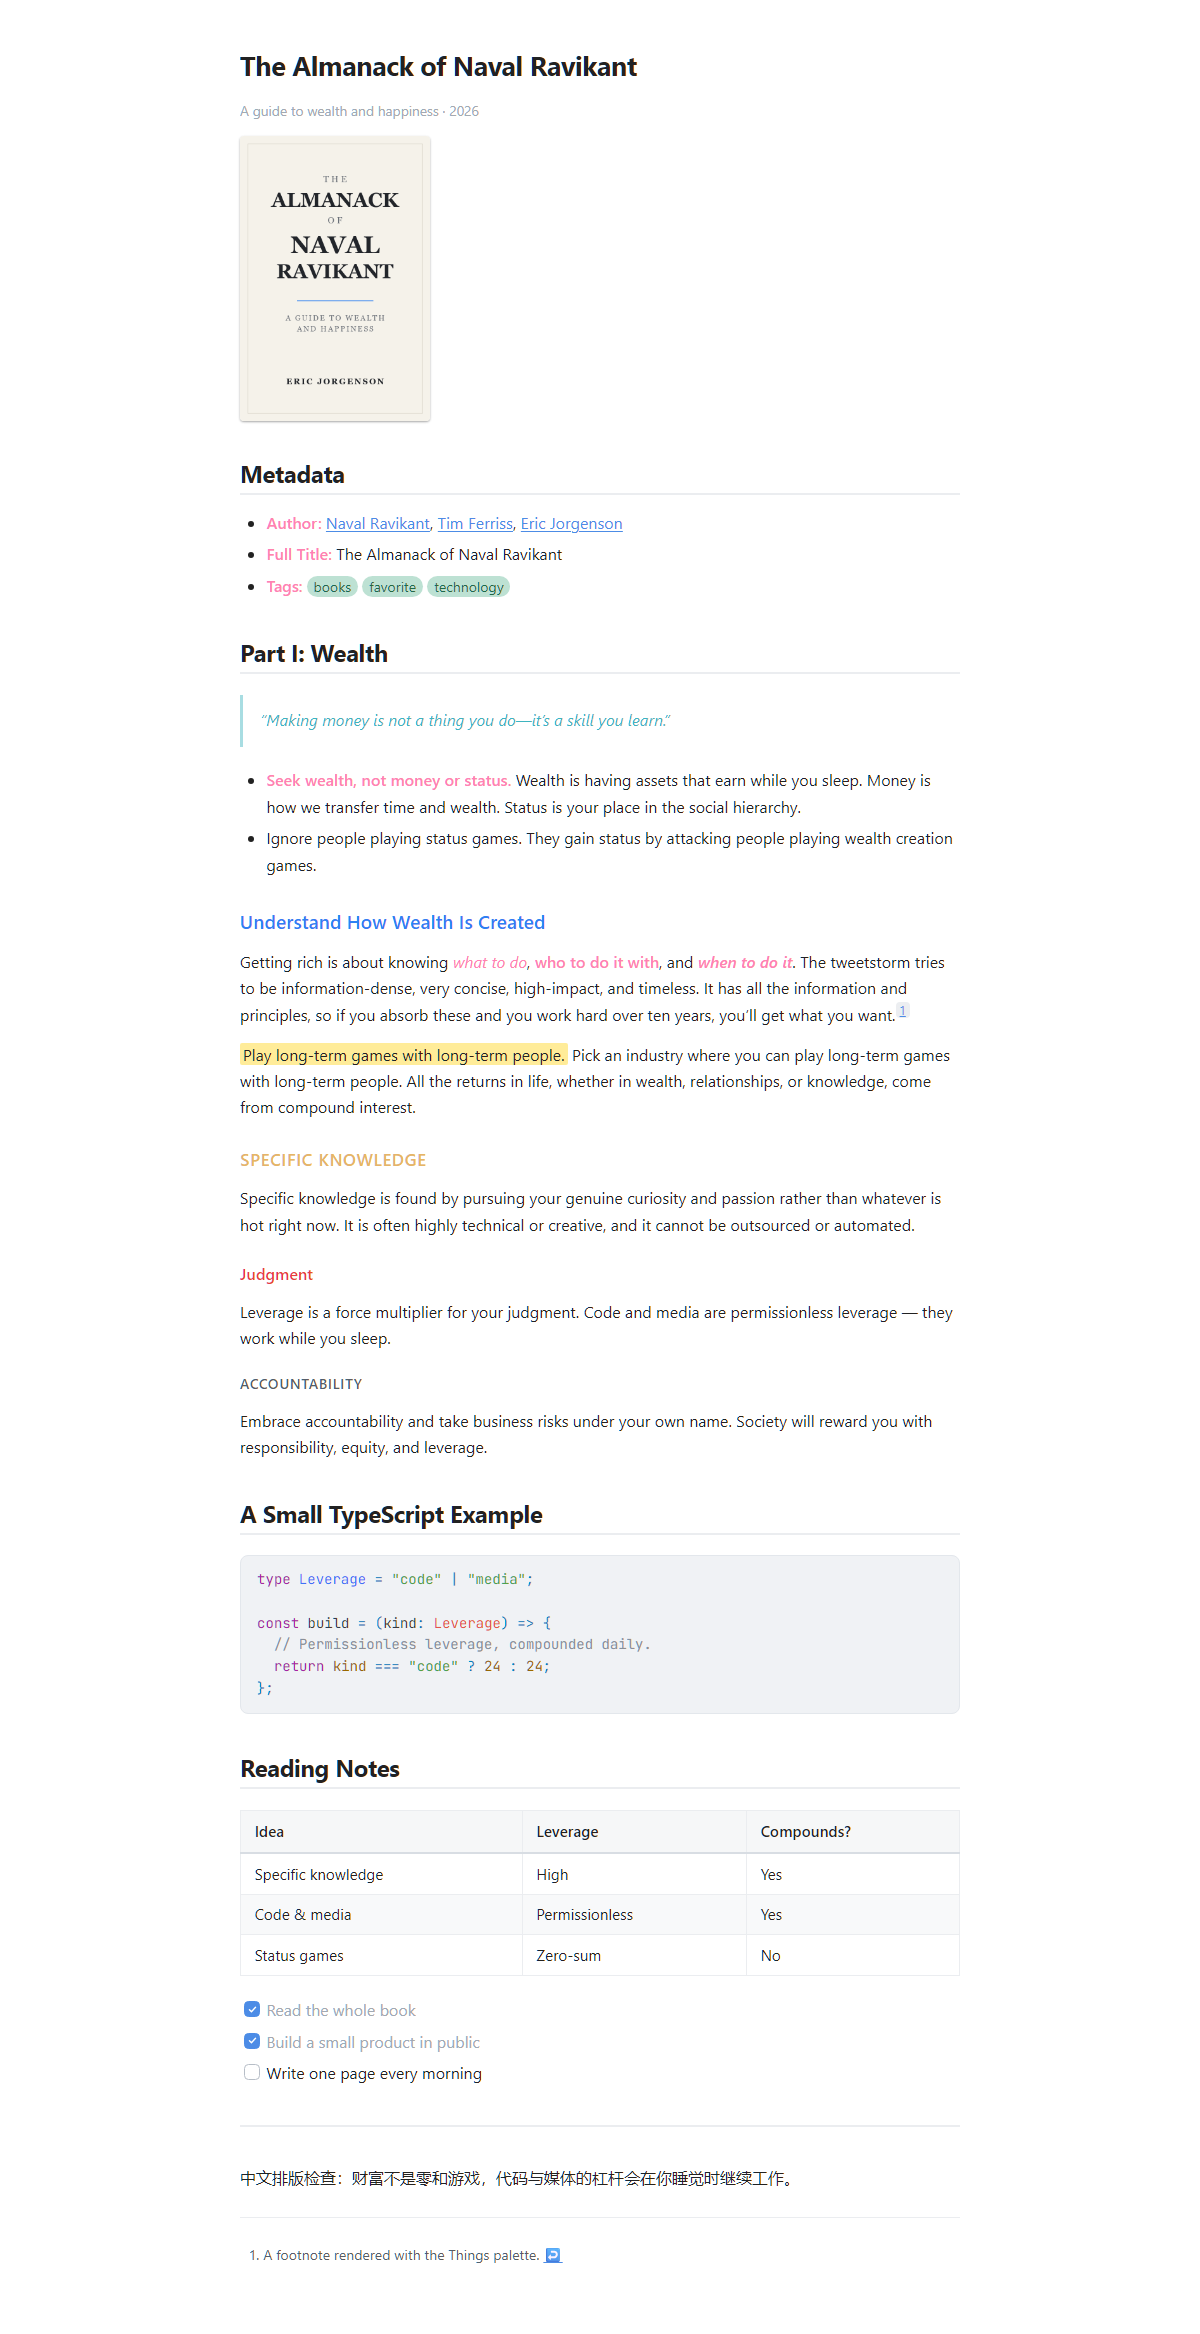
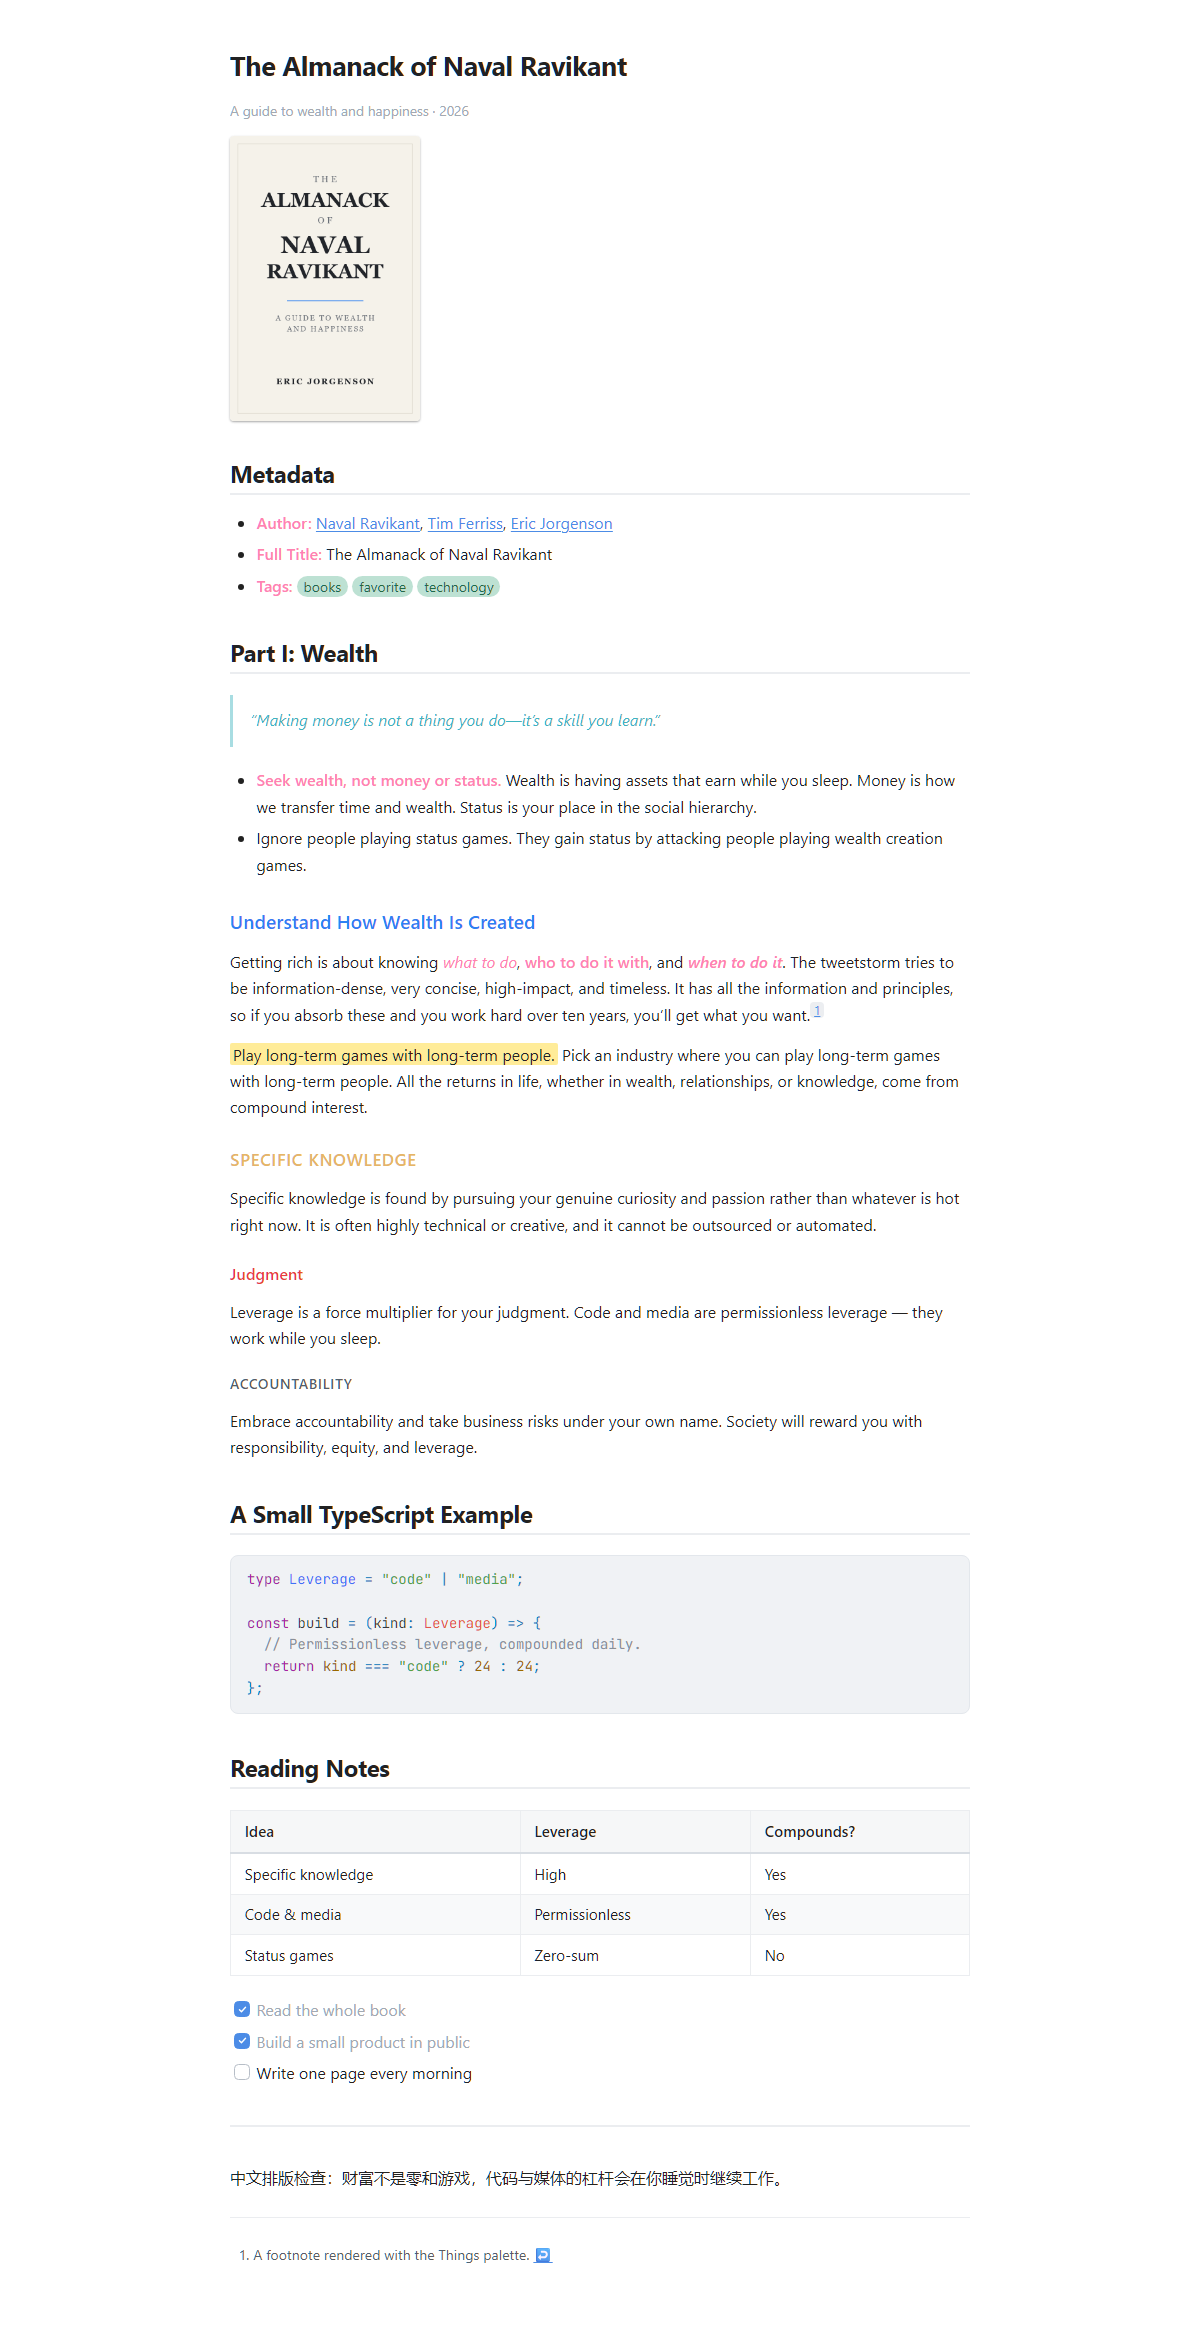
Restore fixed-width layout and widen column to 860px

diff --git a/themes/things-dark.css b/themes/things-dark.css
@@ -89,9 +89,9 @@
     "SFMono-Regular", Menlo, Consolas, "Liberation Mono", "Courier New",
     monospace;
 
-  /* Writing column: 70% of the whole Typora window. max-width:100% keeps it
-     inside the editor pane when the sidebar is open or the window is narrow. */
-  --things-content-width: 70vw;
+  /* Writing column: fixed maximum width, centered by Typora. 860px leaves
+     740px of text after the 60px side paddings (the first release used 760px). */
+  --things-content-max-width: 860px;
 
   /* Typora application variables */
   --bg-color: var(--things-bg);
@@ -202,8 +202,7 @@ content {
 }
 
 #write {
-  width: var(--things-content-width);
-  max-width: 100%;
+  max-width: var(--things-content-max-width);
   margin: 0 auto;
   padding: 48px 60px 120px;
   font-family: var(--things-font-text);
@@ -220,24 +219,8 @@ content {
 
 @media screen and (max-width: 760px) {
   #write {
-    width: auto;
     padding: 28px 24px 80px;
   }
-}
-
-/* Typora centers #write inside the editor pane, not the whole window. When the
-   outline sidebar is pinned, shift the column left by half the sidebar width so
-   it is centered in the window too. The shift never exceeds the available
-   margin, so the text cannot slide under the sidebar on narrow windows. */
-html.pin-outline #write,
-body.pin-outline #write {
-  left: calc(
-    -1 *
-      min(
-        calc(var(--sidebar-width) / 2),
-        max(0px, calc((100% - var(--things-content-width)) / 2))
-      )
-  );
 }
 
 /* --------------------------------------------------------------------------

diff --git a/themes/things-light.css b/themes/things-light.css
@@ -89,9 +89,9 @@
     "SFMono-Regular", Menlo, Consolas, "Liberation Mono", "Courier New",
     monospace;
 
-  /* Writing column: 70% of the whole Typora window. max-width:100% keeps it
-     inside the editor pane when the sidebar is open or the window is narrow. */
-  --things-content-width: 70vw;
+  /* Writing column: fixed maximum width, centered by Typora. 860px leaves
+     740px of text after the 60px side paddings (the first release used 760px). */
+  --things-content-max-width: 860px;
 
   /* Typora application variables */
   --bg-color: var(--things-bg);
@@ -202,8 +202,7 @@ content {
 }
 
 #write {
-  width: var(--things-content-width);
-  max-width: 100%;
+  max-width: var(--things-content-max-width);
   margin: 0 auto;
   padding: 48px 60px 120px;
   font-family: var(--things-font-text);
@@ -220,24 +219,8 @@ content {
 
 @media screen and (max-width: 760px) {
   #write {
-    width: auto;
     padding: 28px 24px 80px;
   }
-}
-
-/* Typora centers #write inside the editor pane, not the whole window. When the
-   outline sidebar is pinned, shift the column left by half the sidebar width so
-   it is centered in the window too. The shift never exceeds the available
-   margin, so the text cannot slide under the sidebar on narrow windows. */
-html.pin-outline #write,
-body.pin-outline #write {
-  left: calc(
-    -1 *
-      min(
-        calc(var(--sidebar-width) / 2),
-        max(0px, calc((100% - var(--things-content-width)) / 2))
-      )
-  );
 }
 
 /* --------------------------------------------------------------------------

diff --git a/src/base.css b/src/base.css
@@ -67,8 +67,7 @@ content {
 }
 
 #write {
-  width: var(--things-content-width);
-  max-width: 100%;
+  max-width: var(--things-content-max-width);
   margin: 0 auto;
   padding: 48px 60px 120px;
   font-family: var(--things-font-text);
@@ -85,24 +84,8 @@ content {
 
 @media screen and (max-width: 760px) {
   #write {
-    width: auto;
     padding: 28px 24px 80px;
   }
-}
-
-/* Typora centers #write inside the editor pane, not the whole window. When the
-   outline sidebar is pinned, shift the column left by half the sidebar width so
-   it is centered in the window too. The shift never exceeds the available
-   margin, so the text cannot slide under the sidebar on narrow windows. */
-html.pin-outline #write,
-body.pin-outline #write {
-  left: calc(
-    -1 *
-      min(
-        calc(var(--sidebar-width) / 2),
-        max(0px, calc((100% - var(--things-content-width)) / 2))
-      )
-  );
 }
 
 /* --------------------------------------------------------------------------

diff --git a/src/tokens-dark.css b/src/tokens-dark.css
@@ -76,9 +76,9 @@
     "SFMono-Regular", Menlo, Consolas, "Liberation Mono", "Courier New",
     monospace;
 
-  /* Writing column: 70% of the whole Typora window. max-width:100% keeps it
-     inside the editor pane when the sidebar is open or the window is narrow. */
-  --things-content-width: 70vw;
+  /* Writing column: fixed maximum width, centered by Typora. 860px leaves
+     740px of text after the 60px side paddings (the first release used 760px). */
+  --things-content-max-width: 860px;
 
   /* Typora application variables */
   --bg-color: var(--things-bg);

diff --git a/src/tokens-light.css b/src/tokens-light.css
@@ -76,9 +76,9 @@
     "SFMono-Regular", Menlo, Consolas, "Liberation Mono", "Courier New",
     monospace;
 
-  /* Writing column: 70% of the whole Typora window. max-width:100% keeps it
-     inside the editor pane when the sidebar is open or the window is narrow. */
-  --things-content-width: 70vw;
+  /* Writing column: fixed maximum width, centered by Typora. 860px leaves
+     740px of text after the 60px side paddings (the first release used 760px). */
+  --things-content-max-width: 860px;
 
   /* Typora application variables */
   --bg-color: var(--things-bg);

diff --git a/README.md b/README.md
@@ -14,7 +14,7 @@
 - **Things 标题体系**：H1/H2 使用正文色，H2 带下划线，H3 蓝色，H4 琥珀色大写，H5 红色，H6 灰色大写。
 - **正文强调**：粗体与斜体使用 Things 粉色 `#ff82b2`，引用使用青色 `#3eb4bf` 并带左侧竖线。
 - **One Dark 代码**：行内代码、代码块和语法高亮分别处理；等宽字体优先使用内置的 JetBrains Mono。
-- **正文宽度**：默认占 Typora 窗口宽度的 70%（`70vw`，侧边栏打开时也是按整个窗口算），由 `--things-content-width` 控制。侧边栏固定时会自动向左偏移，使正文相对整个窗口居中；窗口过窄时不会压到侧边栏。
+- **正文宽度**：固定最大宽度，默认 860px（第一版为 760px，正文实际宽度为 740px），由 `--things-content-max-width` 控制；窄窗口会自动收缩。
 - **Typora 细节**：任务复选框、标签胶囊、图片卡片、表格斑马纹、脚注、TOC、YAML front matter、搜索高亮、专注模式、侧边栏与菜单配色。
 - **打印友好**：从深色主题导出 PDF 时自动切换为浅色页面，代码块与表格背景会保留。
 - **无依赖**：主题是纯 CSS；内置字体只是可选项，不复制 `things/` 文件夹也能正常工作。
@@ -67,7 +67,7 @@ Typora 和 Obsidian 的渲染结构不同，因此这不是像素级复刻：
   --things-pink: #ff82b2;     /* 粗体、斜体 */
   --things-quote: #3eb4bf;    /* 引用文字 */
   --things-code-block-bg: #f0f2f5;
-  --things-content-width: 70vw; /* 正文宽度（相对整个窗口） */
+  --things-content-max-width: 860px; /* 正文最大宽度 */
   --things-font-text: ...;
 }
 ```
@@ -80,7 +80,7 @@ node build.mjs
 
 不要直接改 `themes/*.css` 后再运行构建，构建会覆盖它们。
 
-> `--things-content-width: 70vw` 以整个 Typora 窗口为基准；如果你更想按编辑区（窗口减去侧边栏）计算，把它改成 `70%`。窄窗口和打印时仍会自动回退到可读宽度。
+> 这是固定最大宽度，不随窗口百分比缩放；第一版是 `760px`，当前默认 `860px`。想要更宽或更窄，只改这一个数值即可。
 
 ## 目录结构
 
